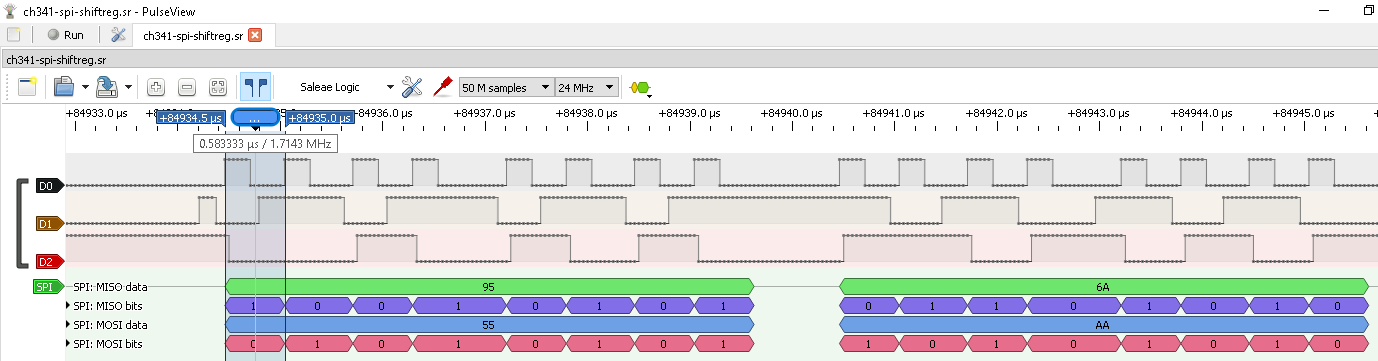
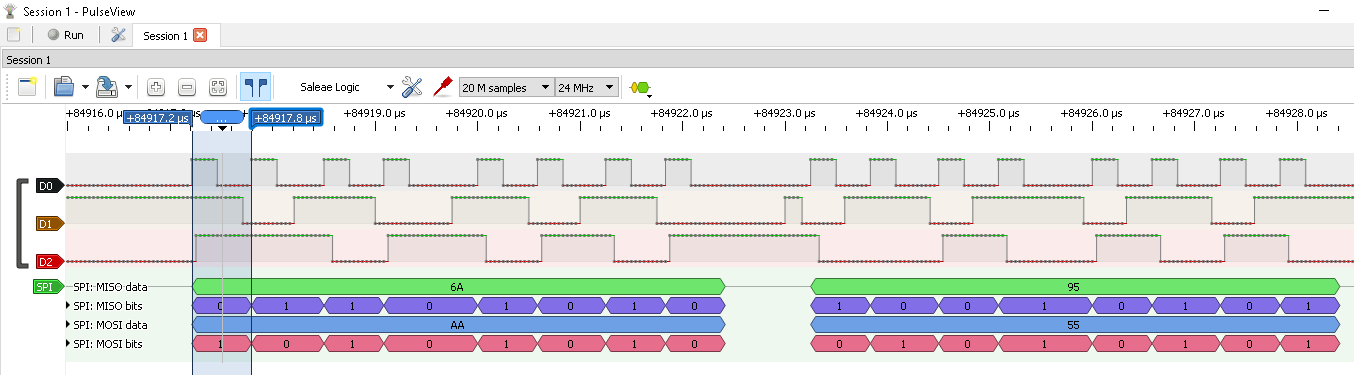
Fixed bit order - send MSB first

diff --git a/TestSPI_VS2010/ch341_spi_shiftreg/ch341_spi_shiftreg.cpp b/TestSPI_VS2010/ch341_spi_shiftreg/ch341_spi_shiftreg.cpp
@@ -32,7 +32,9 @@ int _tmain(int argc, _TCHAR* argv[])
 		goto exit0;
 	}
 
-	if (!CH341SetStream(iDevIndex,0x00)){
+
+	// 0x80 send MSB bit first on SPI
+	if (!CH341SetStream(iDevIndex,0x80)){
 			printf("CH341SetStream failed\r\n");
 			ret = EXIT_FAILURE;
 			goto exit1;

diff --git a/README.md b/README.md
@@ -75,12 +75,12 @@ Sending to SPI:
 Index=0, Value=0xaa
 Index=1, Value=0x55
 SPI returned back data:
-Index=0, Value=0xa9
-Index=1, Value=0x56
+Index=0, Value=0x6a
+Index=1, Value=0x95
 ```
-And LED D2 should be ON.
+And LED D1 should be ON.
 
-NOTES: 1st to bits of returned data can be different than as shown in
+NOTES: 1st and 2nd bits of returned data can be different than as shown in
 above listings - because these are values from two previous clock ticks
 (or should `0` after CD4013 reset)
 
